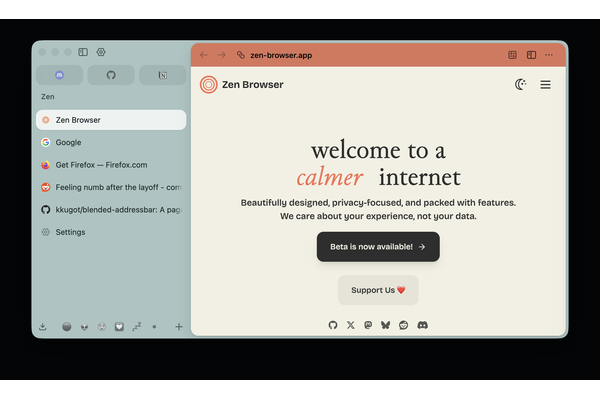
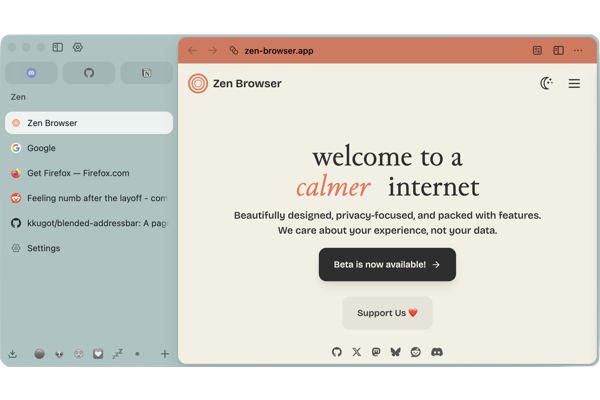
Release version 1.0.0

diff --git a/README.md b/README.md
@@ -4,11 +4,7 @@ An addressbar that belongs to the page.
 
 Blended Addressbar is a Zen Browser mod that reshapes the dual-toolbar addressbar into a page-aware browser frame with adaptive colors.
 
-![Blended Addressbar preview](blended-addressbar.png)
-
-## Demo
-
-![Blended Addressbar demo](video-demo.gif)
+![Blended Addressbar preview](marketplace-preview.png)
 
 ## Features
 

diff --git a/MARKETPLACE.md b/MARKETPLACE.md
@@ -3,7 +3,7 @@
 ## Ready
 
 - Name: `Blended Addressbar` (18 characters).
-- Version: `0.9.4`.
+- Version: `1.0.0`.
 - Description: `A page-aware addressbar that blends Zen chrome with the active website.` (71 characters).
 - Metadata: `theme.json`.
 - Preferences: `preferences.json`.
@@ -29,7 +29,7 @@
   "readme": "https://raw.githubusercontent.com/kkugot/blended-addressbar/main/README.md",
   "image": "https://raw.githubusercontent.com/kkugot/blended-addressbar/main/marketplace-preview.png",
   "author": "Kostiantyn Kugot",
-  "version": "0.9.4",
+  "version": "1.0.0",
   "updatedAt": "2026-05-13",
   "style": {
     "chrome": "style.css",